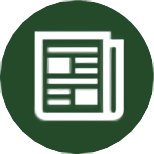
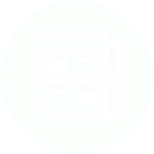
Figured out how to make hover items n-th child compat. Still need to color-to-alpha the rest of them

diff --git a/src/App.css b/src/App.css
@@ -87,9 +87,11 @@
 }
 .card_scroll_browser>div:nth-child(2n+1) .card_dropdown>img {
     left: 0;
+    background-color: var(--csu-green);
 }
 .card_scroll_browser>div:nth-child(2n) .card_dropdown>img {
     right: 0;
+    background-color: var(--csu-gold);
 }
 .card_dropdown>img.breathing {
     --scale: 6em;
@@ -114,15 +116,21 @@
     animation: breathing 3s infinite;
     animation-delay: 0s;
 }
+.card_scroll_browser>div:nth-child(2n+1) .breathing {
+    --color: var(--csu-green);
+}
+.card_scroll_browser>div:nth-child(2n) .breathing {
+    --color: var(--csu-gold);
+}
 .breathing.subtle{
     --breathing-scale: 0.25em;
 }
 @keyframes breathing {
     0% {
-	box-shadow: 0 0 0 0em rgba(30, 77, 43, 255);
+	box-shadow: 0 0 0 0em var(--color);
     }
     75% {
-	box-shadow: 0 0 0 var(--breathing-scale) rgba(30, 77, 43, 0);
+	box-shadow: 0 0 0 var(--breathing-scale) rgba(0, 0, 0, 0);
     }
     100% {
 	box-shadow: 0 0 0 var(--breathing-scale) rgba(0, 0, 0, 0);
